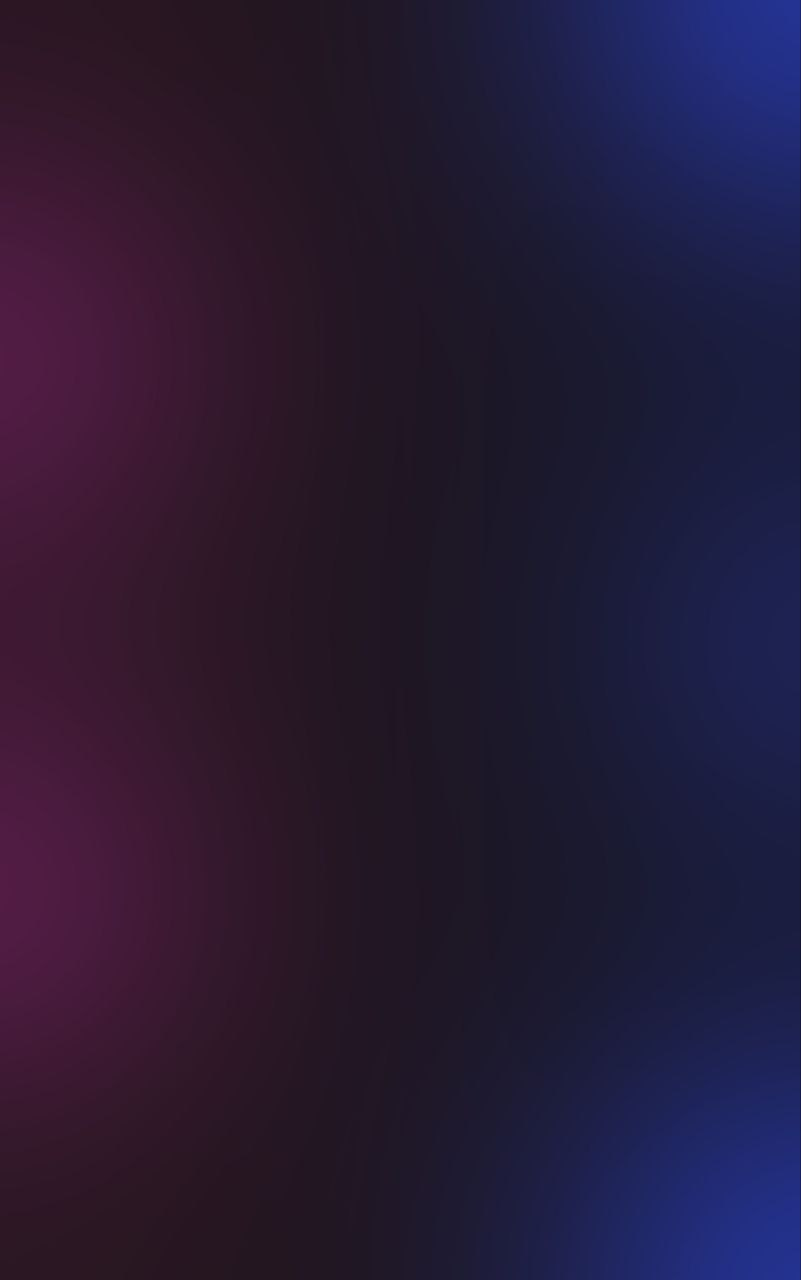
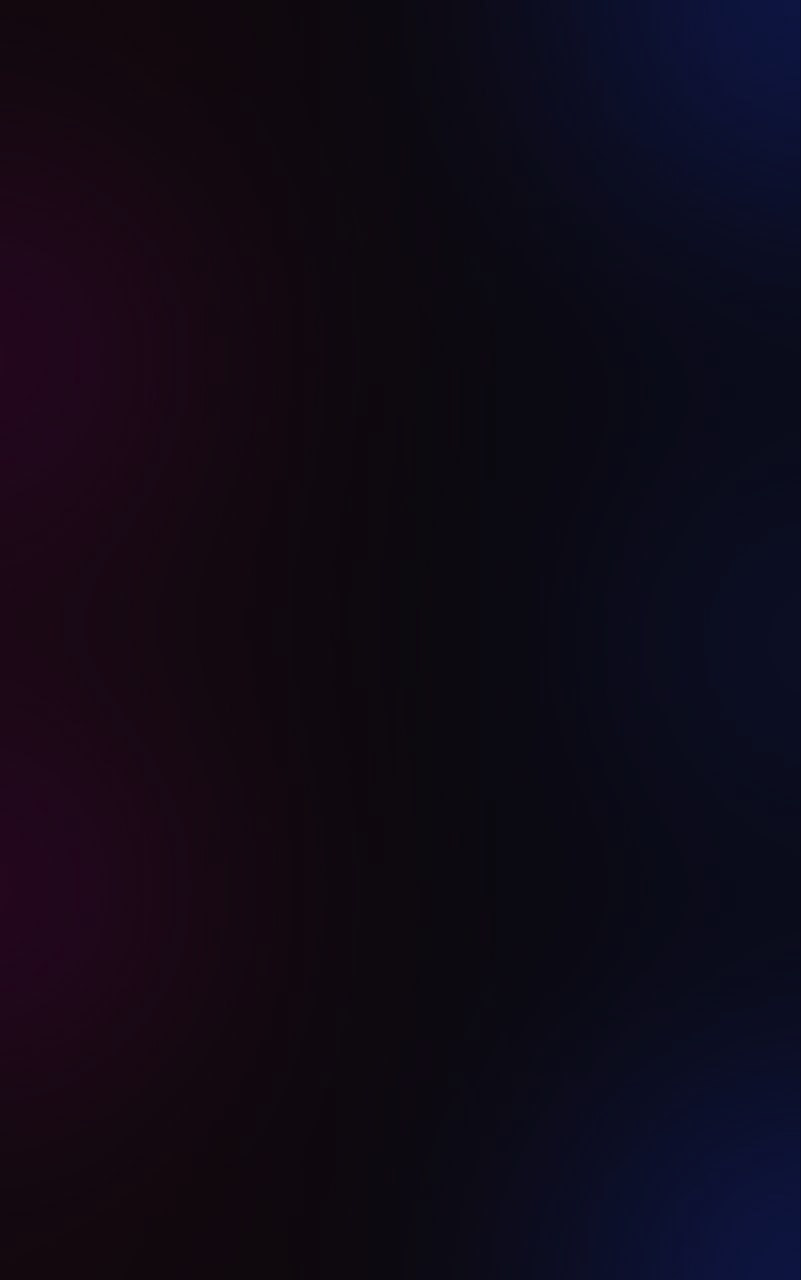
update

diff --git a/main/main.css b/main/main.css
@@ -42,8 +42,9 @@ html , body{
 body {
   color: var(--color0);
   background-color: #202020;
-  background-image: linear-gradient(rgba(0, 0, 0, 0.25), rgba(0, 0, 0, 0.55)), url("../img/dark_wall.png");
-
+  background-image: url("../BG.jpeg");
+  background-position: center center;
+  background-size: cover;
   Height: 100%;
   scroll-behavior: smooth;
   

diff --git a/conn.php b/conn.php
@@ -3,8 +3,8 @@
  $username = 'epiz_34278868';
  $password = 'rvU6NBt1Bkp';
  $database = 'epiz_34278868_massBook';
- $conn = mysqli_connect($hostname, $username, $password, $database);
-//  $conn = mysqli_connect("127.0.0.1", "root", "", "Mass-book");
+//  $conn = mysqli_connect($hostname, $username, $password, $database);
+ $conn = mysqli_connect("127.0.0.1", "root", "", "Mass-book");
 
 
 ?>
